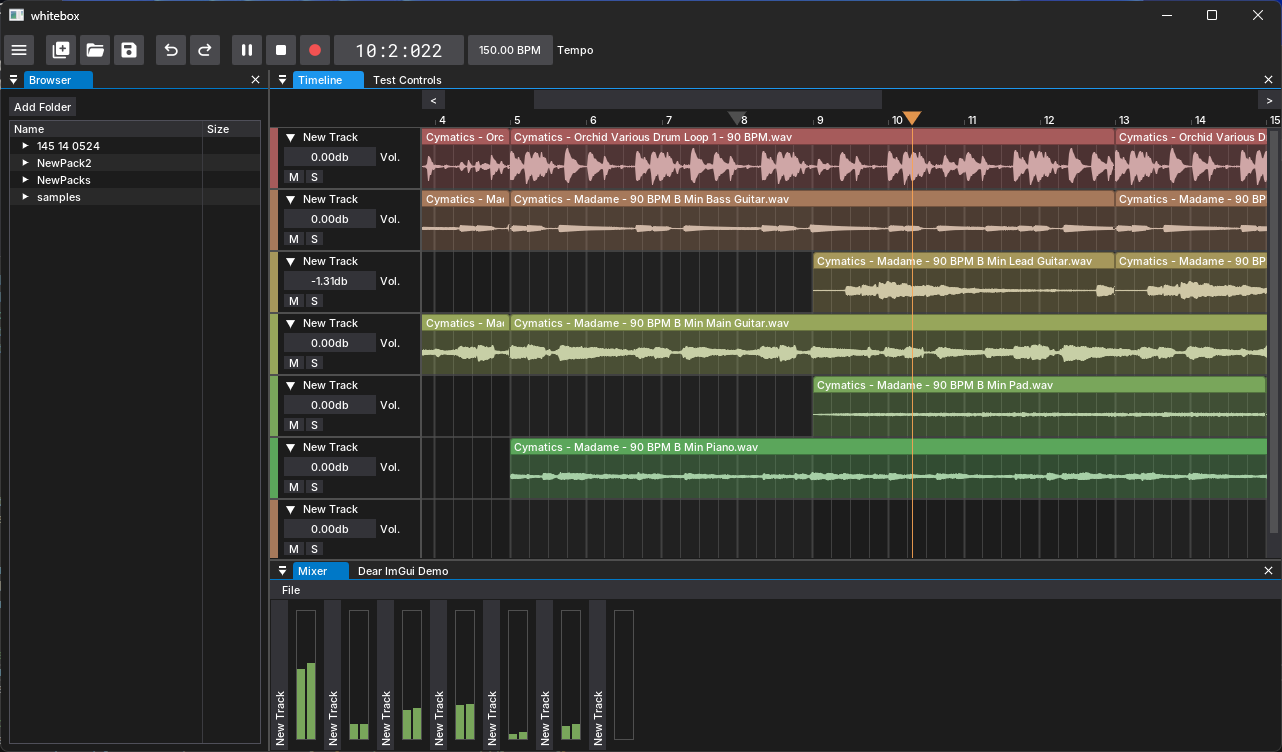
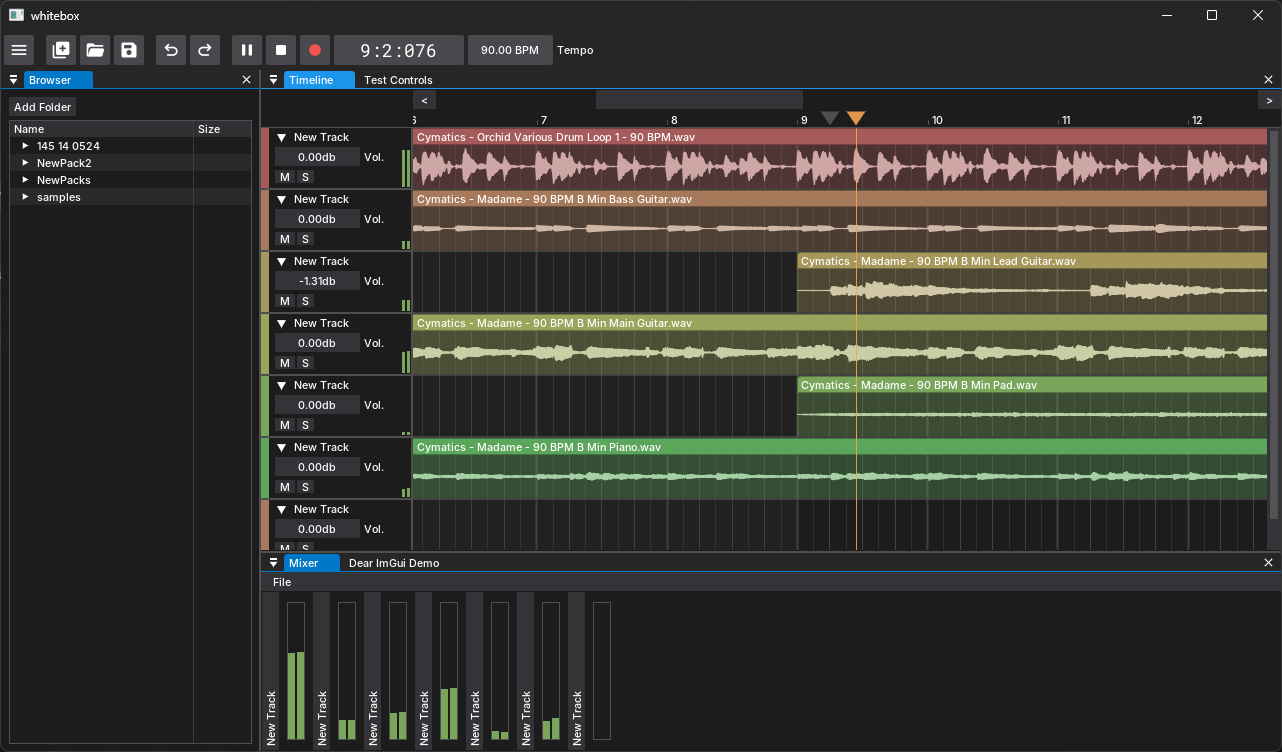
Add VU meter in track control

diff --git a/src/ui/timeline.cpp b/src/ui/timeline.cpp
@@ -70,9 +70,11 @@ inline void draw_clip(ImDrawList* draw_list, ImVector<ClipContentDrawCmd>& clip_
         double mip_index = (std::log(scale_x * 0.5) * log_base4) * 0.5; // Scale -> Index
         uint32_t index = std::clamp((uint32_t)mip_index, 0u, sample_peaks->mipmap_count - 1);
         double mult = std::pow(4.0, (double)index - 1.0);
-        double mip_scale = std::pow(4.0, 2.0 * (mip_index - (double)index)) * 8.0 * mult; // Index -> Mip Scale
+        double mip_scale =
+            std::pow(4.0, 2.0 * (mip_index - (double)index)) * 8.0 * mult; // Index -> Mip Scale
         // double mip_index = std::log(scale_x * 0.5) * log_base4; // Scale -> Index
-        // double mip_scale = std::pow(4.0, (mip_index - (double)index)) * 2.0; // Index -> Mip Scale
+        // double mip_scale = std::pow(4.0, (mip_index - (double)index)) * 2.0; // Index -> Mip
+        // Scale
 
         double waveform_start = start_sample_pos * inv_scale_x;
         double waveform_len = ((double)asset->sample_instance.count - waveform_start) * inv_scale_x;
@@ -488,8 +490,8 @@ inline void GuiTimeline::render_track_controls() {
         ImGui::PushStyleVar(ImGuiStyleVar_ItemSpacing, ImVec2());
         ImGui::PushStyleVar(ImGuiStyleVar_WindowPadding, ImVec2(track_color_width - 2.0f, 2.0f));
         ImGui::BeginChild("##track_control",
-                          ImVec2(clamped_separator_pos - track_color_width, track->height), false,
-                          track_control_window_flags);
+                          ImVec2(clamped_separator_pos - track_color_width - 10.0f, track->height),
+                          0, track_control_window_flags);
 
         {
             bool parameter_updated = false;
@@ -543,6 +545,11 @@ inline void GuiTimeline::render_track_controls() {
         }
 
         ImGui::EndChild();
+        ImGui::SameLine();
+
+        controls::vu_meter("##timeline_vu_meter", ImVec2(10.0f, track->height), 2, track->vu_meter,
+                           false);
+
         ImGui::PopID();
         ImGui::Unindent(track_color_width);
 
@@ -788,7 +795,8 @@ void GuiTimeline::render_track_lanes() {
         priv_draw_list->_ResetForNewFrame();
         priv_draw_list->PushTextureID(ImGui::GetIO().Fonts->TexID);
         priv_draw_list->PushClipRect(view_min, view_max);
-        ImU32 dark_grid_color = (ImU32)color_adjust_alpha(ImGui::GetColorU32(ImGuiCol_Separator), 0.4f);
+        ImU32 dark_grid_color =
+            (ImU32)color_adjust_alpha(ImGui::GetColorU32(ImGuiCol_Separator), 0.4f);
 
         // Draw four bars length guidestrip
         float four_bars = (float)(16.0 * ppq / view_scale);

diff --git a/src/ui/controls.cpp b/src/ui/controls.cpp
@@ -40,8 +40,8 @@ bool param_drag_db(const char* str_id, float* value, float speed, float min_db, 
                    const char* format, ImGuiSliderFlags flags) {
     char tmp[16] {};
     const char* str_value = tmp;
-    flags |=
-        ImGuiSliderFlags_AlwaysClamp;// | ImGuiSliderFlags_Logarithmic | ImGuiSliderFlags_NoRoundToFormat;
+    flags |= ImGuiSliderFlags_AlwaysClamp; // | ImGuiSliderFlags_Logarithmic |
+                                           // ImGuiSliderFlags_NoRoundToFormat;
 
     if (*value > 0.0f) {
         float db_value = math::linear_to_db(*value);
@@ -93,7 +93,8 @@ bool mixer_label(const char* caption, const float height, const ImColor& color) 
     return true;
 }
 
-void vu_meter(const char* str_id, const ImVec2& size, uint32_t count, VUMeter* channels) {
+void vu_meter(const char* str_id, const ImVec2& size, uint32_t count, VUMeter* channels,
+              bool border) {
     static const ImU32 channel_color = ImColor(121, 166, 91);
     ImVec2 start_pos = ImGui::GetCursorScreenPos();
     ImVec2 end_pos = start_pos + size;
@@ -110,10 +111,11 @@ void vu_meter(const char* str_id, const ImVec2& size, uint32_t count, VUMeter* c
     if (!ImGui::ItemAdd(bb, id))
         return;
 
-    draw_list->AddRect(start_pos, end_pos, border_col);
-    
+    if (border) {
+        draw_list->AddRect(start_pos, end_pos, border_col);
+    }
+
     float pos_x = start_pos.x;
-    
     for (uint32_t i = 0; i < count; i++) {
         float channel_pos_x = pos_x;
         pos_x += channel_size;

diff --git a/src/ui/controls.h b/src/ui/controls.h
@@ -1,9 +1,9 @@
 #pragma once
 
 #include "core/debug.h"
-#include "engine/vu_meter.h"
 #include "engine/audio_param.h"
 #include "engine/param_changes.h"
+#include "engine/vu_meter.h"
 #include <algorithm>
 #include <imgui.h>
 #include <imgui_internal.h>
@@ -228,7 +228,8 @@ bool param_slider_db(AudioParameterList& param_list, uint32_t id,
                      const ImColor& color, float min_db = -70.0f, float max_db = 7.0f,
                      const char* format = "%.2fdB");
 bool mixer_label(const char* caption, const float height, const ImColor& color);
-void vu_meter(const char* str_id, const ImVec2& size, uint32_t count, VUMeter* channels);
+void vu_meter(const char* str_id, const ImVec2& size, uint32_t count, VUMeter* channels,
+              bool border = true);
 void render_test_controls();
 extern bool g_test_control_shown;
 
